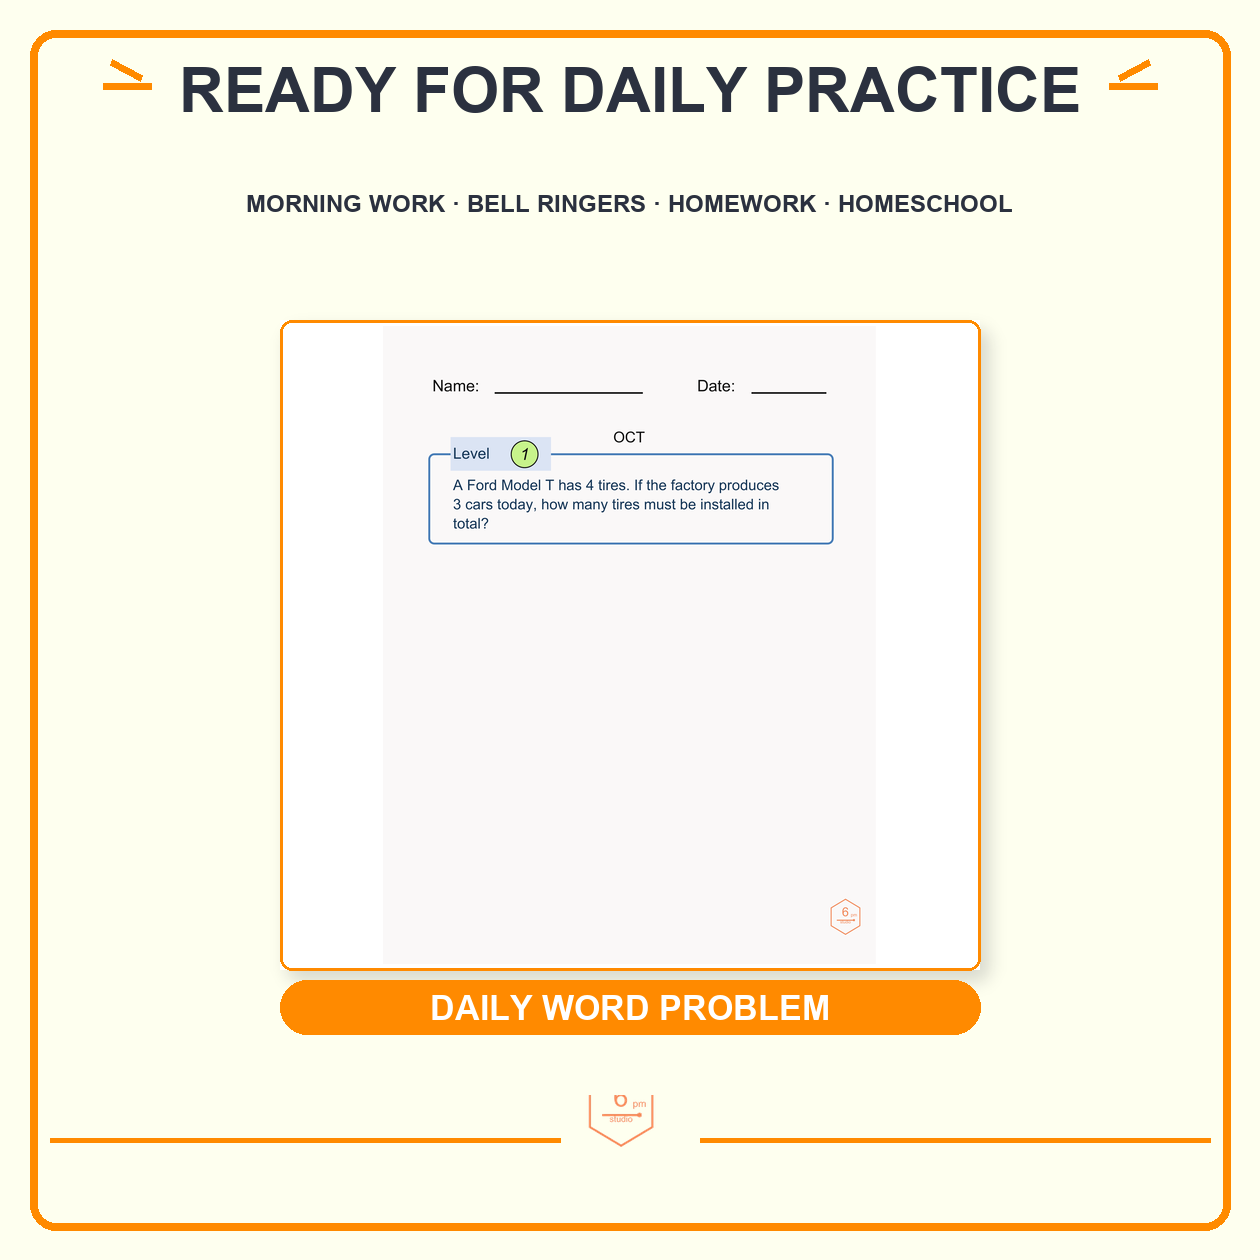
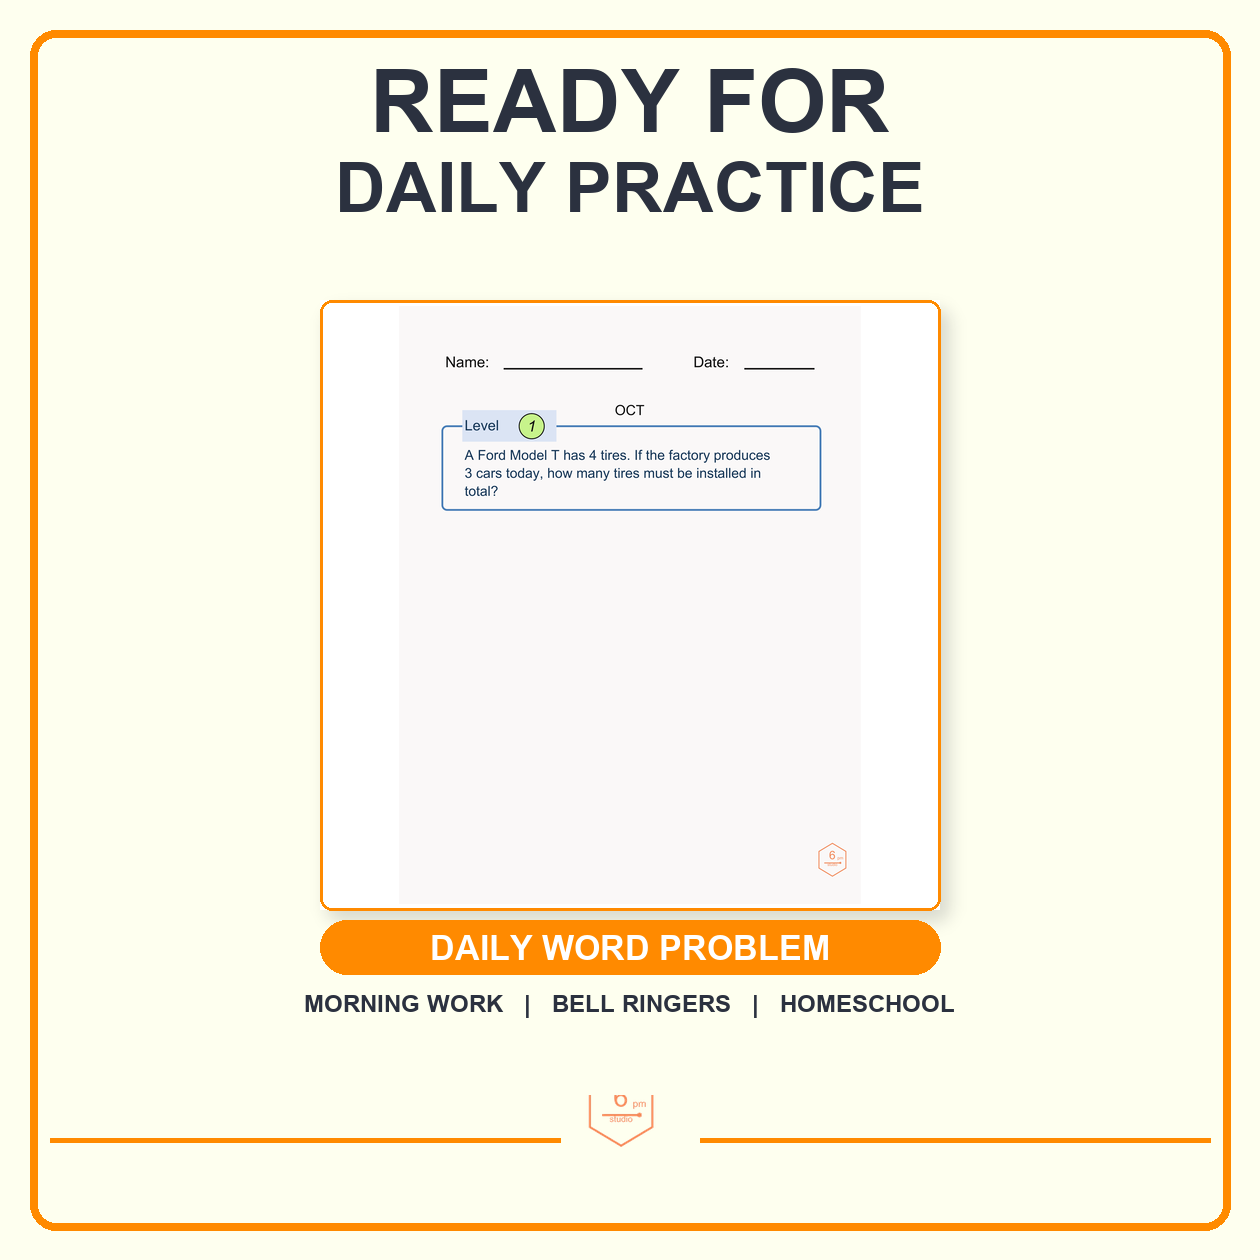
Match thumbnail prompts and fixed visual layouts

diff --git a/scripts/generate_monthly_thumbnails.py b/scripts/generate_monthly_thumbnails.py
@@ -63,6 +63,22 @@ def footer(canvas):
     draw.line((700, 1140, 1210, 1140), fill=ORANGE, width=5)
 
 
+def pumpkin_doodle(canvas):
+    """Draw a stable, recognizable single-line October accent."""
+    draw = ImageDraw.Draw(canvas)
+    stroke = 8
+    cx, cy = 630, 650
+    for box in [(430, 500, 625, 820), (520, 470, 740, 830), (635, 500, 830, 820)]:
+        draw.arc(box, 70, 290, fill=ORANGE, width=stroke)
+    draw.arc((400, 520, 860, 820), 180, 360, fill=ORANGE, width=stroke)
+    draw.arc((400, 470, 860, 790), 0, 180, fill=ORANGE, width=stroke)
+    draw.line((cx, 500, cx + 10, 430), fill=ORANGE, width=stroke)
+    draw.arc((635, 405, 770, 500), 190, 345, fill=ORANGE, width=stroke)
+    draw.arc((680, 425, 790, 510), 205, 335, fill=ORANGE, width=stroke)
+    draw.arc((475, 435, 590, 535), 205, 350, fill=ORANGE, width=stroke)
+    draw.line((cx - 14, 430, cx - 5, 385), fill=ORANGE, width=stroke)
+
+
 def centered(draw, text, y, size, max_width=1120, fill=NAVY):
     draw.text((630, y), text, anchor="ma", fill=fill, font=fitted(text, max_width, size))
 
@@ -108,10 +124,11 @@ def logo(canvas, page):
 def compose_cover(month, out, source_page):
     canvas = base_canvas()
     draw = ImageDraw.Draw(canvas)
-    draw.text((92, 126), month.upper(), fill=NAVY, font=font(92))
-    draw.text((92, 252), "MORNING\nWORK MATH", fill=NAVY, font=font(64), spacing=4)
-    draw.text((92, 470), "31 DAILY WORD\nPROBLEMS · 3 LEVELS", fill=NAVY, font=font(36), spacing=8)
-    card(canvas, source_page, (690, 142, 430, 690), "REAL WORKSHEET PREVIEW")
+    centered(draw, month.upper(), 94, 106, 1050)
+    centered(draw, "MORNING WORK MATH", 232, 66, 1080)
+    centered(draw, "31 DAILY WORD PROBLEMS · 3 LEVELS", 326, 31, 1080)
+    centered(draw, "HISTORICAL MINI-STORIES", 374, 31, 1080)
+    pumpkin_doodle(canvas)
     footer(canvas)
     if source_page:
         logo(canvas, source_page)
@@ -121,40 +138,39 @@ def compose_cover(month, out, source_page):
 def compose_whats_included(pages, out):
     canvas = base_canvas()
     draw = ImageDraw.Draw(canvas)
-    accented_title(draw, "ONE PACKET. THREE LEVELS.", 40, 62, 1120)
-    centered(draw, "LEVEL 1 · LEVEL 2 · LEVEL 3", 132, 28)
-    centered(draw, "SEPARATE ANSWER KEYS", 170, 28)
-    for x, key, label in [(31, "level1", "LEVEL 1"), (437, "level2", "LEVEL 2"), (843, "level3", "LEVEL 3")]:
-        card(canvas, pages[key], (x, 230, 380, 470), label)
-    card(canvas, pages["answer_key"], (440, 830, 380, 170), "SEPARATE ANSWER KEYS")
+    accented_title(draw, "WHAT'S INCLUDED", 54, 72, 1000)
+    for x, key, label in [(45, "story", "STORY"), (435, "level1", "LEVEL 1"), (825, "level2", "LEVEL 2")]:
+        card(canvas, pages[key], (x, 210, 340, 430), label)
+    for x, key, label in [(240, "level3", "LEVEL 3"), (680, "answer_key", "ANSWER KEY")]:
+        card(canvas, pages[key], (x, 730, 340, 330), label)
     footer(canvas)
-    logo(canvas, pages["level1"])
+    logo(canvas, pages["story"])
     canvas.convert("RGB").save(out, "PNG", optimize=True)
 
 
 def compose_different_math(pages, out):
     canvas = base_canvas()
     draw = ImageDraw.Draw(canvas)
-    accented_title(draw, "ONE STORY. DIFFERENT MATH.", 48, 60, 1120)
-    centered(draw, "SHARED HISTORICAL CONTEXT WITH LEVELED WORD PROBLEMS.", 142, 22, 1100)
+    centered(draw, "ONE STORY", 52, 88, 1080)
+    centered(draw, "DIFFERENT MATH", 148, 70, 1080)
     for box, key, label in [
-        ((80, 230, 520, 330), "story", "SHARED STORY"),
-        ((660, 230, 520, 330), "level1", "LEVEL 1"),
-        ((80, 690, 520, 330), "level2", "LEVEL 2"),
-        ((660, 690, 520, 330), "level3", "LEVEL 3"),
+        ((55, 290, 350, 590), "level1", "LEVEL 1"),
+        ((455, 290, 350, 590), "level2", "LEVEL 2"),
+        ((855, 290, 350, 590), "level3", "LEVEL 3"),
     ]:
         card(canvas, pages[key], box, label)
     footer(canvas)
-    logo(canvas, pages["story"])
+    logo(canvas, pages["level1"])
     canvas.convert("RGB").save(out, "PNG", optimize=True)
 
 
 def compose_daily_practice(pages, out):
     canvas = base_canvas()
     draw = ImageDraw.Draw(canvas)
-    accented_title(draw, "READY FOR DAILY PRACTICE", 55, 62, 1080)
-    centered(draw, "MORNING WORK · BELL RINGERS · HOMEWORK · HOMESCHOOL", 190, 24, 1130)
-    card(canvas, pages["worksheet"], (280, 320, 700, 650), "DAILY WORD PROBLEM")
+    centered(draw, "READY FOR", 52, 88, 1080)
+    centered(draw, "DAILY PRACTICE", 148, 70, 1080)
+    card(canvas, pages["worksheet"], (320, 300, 620, 610), "DAILY WORD PROBLEM")
+    centered(draw, "MORNING WORK   |   BELL RINGERS   |   HOMESCHOOL", 990, 24, 1130)
     footer(canvas)
     logo(canvas, pages["worksheet"])
     canvas.convert("RGB").save(out, "PNG", optimize=True)
@@ -196,10 +212,10 @@ def main():
         compose_daily_practice(daily, args.output_dir / f"{prefix}-daily-practice.png")
     names = ["cover", "whats-included", "different-math", "daily-practice"]
     labels = {
-        "cover": ["October Morning Work Math", "31 Daily Word Problems · 3 Levels", "REAL WORKSHEET PREVIEW"],
-        "whats_included": ["One Packet. Three Levels.", "Level 1 · Level 2 · Level 3", "Separate Answer Keys"],
-        "different_math": ["One Story. Different Math.", "Shared historical context with leveled word problems.", "SHARED STORY", "LEVEL 1", "LEVEL 2", "LEVEL 3"],
-        "daily_practice": ["Ready for Daily Practice", "Morning Work · Bell Ringers · Homework · Homeschool", "DAILY WORD PROBLEM"],
+        "cover": ["October", "Morning Work Math", "31 Daily Word Problems · 3 Levels", "Historical Mini-Stories"],
+        "whats_included": ["What's Included", "Story", "Level 1", "Level 2", "Level 3", "Answer Key"],
+        "different_math": ["One Story", "Different Math", "Level 1", "Level 2", "Level 3"],
+        "daily_practice": ["Ready for", "Daily Practice", "Morning Work", "Bell Ringers", "Homeschool"],
     }
     checksums = {name: hashlib.sha256((args.output_dir / f"{prefix}-{name}.png").read_bytes()).hexdigest() for name in names}
     report = {
@@ -218,10 +234,10 @@ def main():
         "pdf": manifest["pdf"]["path"],
         "pdf_sha256": actual_pdf_sha256,
         "copyConcepts": {
-            "cover": {"headline": "October Morning Work Math", "supportingText": "31 Daily Word Problems · 3 Levels"},
-            "whats_included": {"headline": "One Packet. Three Levels.", "supportingText": ["Level 1 · Level 2 · Level 3", "Separate Answer Keys"]},
-            "different_math": {"headline": "One Story. Different Math.", "supportingText": "Shared historical context with leveled word problems."},
-            "daily_practice": {"headline": "Ready for Daily Practice", "supportingText": "Morning Work · Bell Ringers · Homework · Homeschool"},
+            "cover": {"headline": "October", "productTitle": "MORNING WORK MATH", "supportingText": ["31 DAILY WORD PROBLEMS · 3 LEVELS", "HISTORICAL MINI-STORIES"], "doodle": "orange line-art pumpkin"},
+            "whats_included": {"headline": "WHAT'S INCLUDED", "sourceLayout": "story, level 1, level 2 / level 3, answer key"},
+            "different_math": {"headline": ["ONE STORY", "DIFFERENT MATH"], "sourceLayout": "level 1, level 2, level 3 in one row"},
+            "daily_practice": {"headline": ["READY FOR", "DAILY PRACTICE"], "useCases": ["MORNING WORK", "BELL RINGERS", "HOMESCHOOL"]},
         },
     }
     (args.output_dir / "monthly-thumbnail-report.json").write_text(json.dumps(report, indent=2) + "\n", encoding="utf-8")
